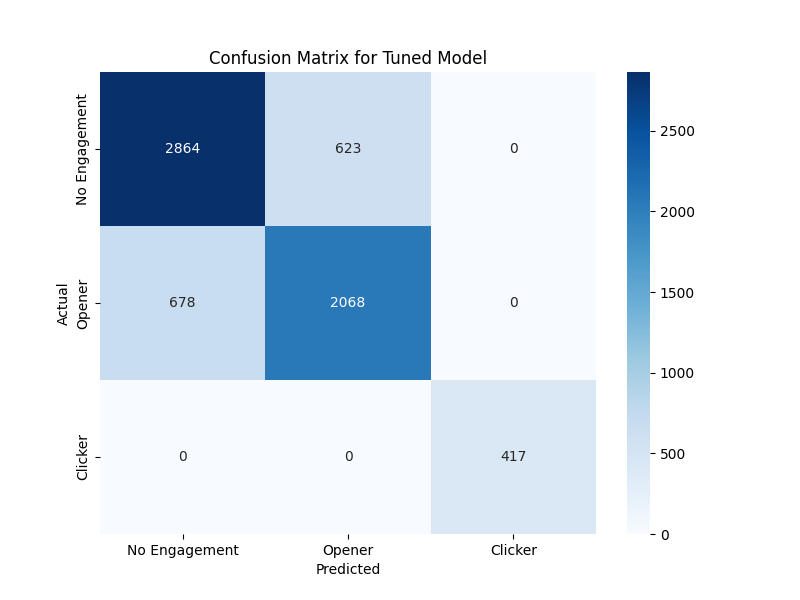
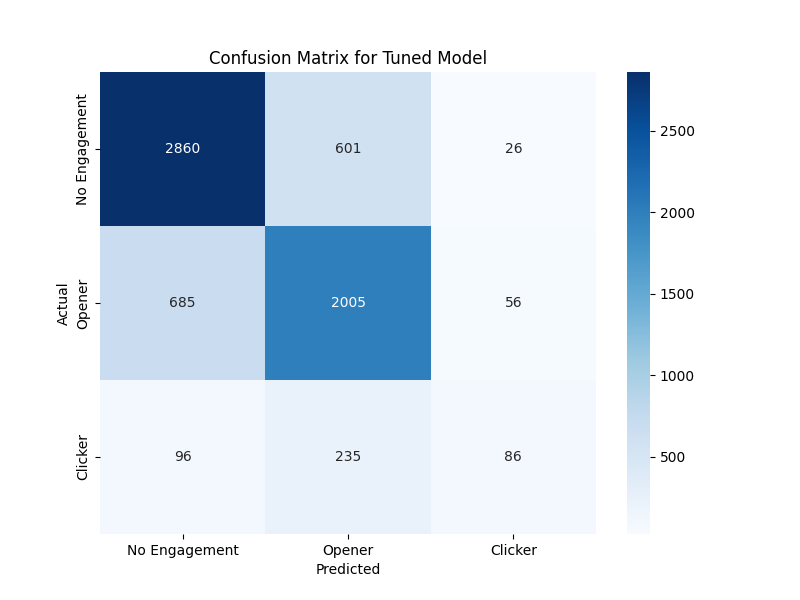
change to shaply and SMOTE in pipeline, removed more leaking and low data features

diff --git a/new_grid_cv_xgboost.py b/new_grid_cv_xgboost.py
@@ -1,10 +1,7 @@
 """
-This script trains a multiclass XGBoost model to predict user engagement,
-using GridSearchCV to find the optimal hyperparameters before evaluating
-the final model.
-
-This revised version incorporates a scikit-learn Pipeline to prevent
-data leakage during preprocessing.
+This script trains a multiclass XGBoost model to predict user engagement.
+It uses RandomizedSearchCV for efficient hyperparameter tuning and a SMOTE 
+pipeline to handle class imbalance and prevent data leakage during preprocessing.
 """
 
 import sys
@@ -14,57 +11,69 @@ import xgboost as xgb
 import matplotlib.pyplot as plt
 import seaborn as sns
 from pathlib import Path
-from sklearn.model_selection import train_test_split, GridSearchCV
+from sklearn.model_selection import train_test_split, RandomizedSearchCV
 from sklearn.impute import SimpleImputer
 from sklearn.feature_extraction.text import TfidfVectorizer
 from sklearn.compose import ColumnTransformer
-from sklearn.pipeline import Pipeline
 from sklearn.preprocessing import OneHotEncoder
 from sklearn.metrics import classification_report, confusion_matrix
-from typing import Tuple, List
+from typing import Tuple
 
-# --- Configuration (Unchanged) ---
+# Import pipeline and SMOTE from imbalanced-learn
+from imblearn.pipeline import Pipeline as ImbPipeline
+from imblearn.over_sampling import SMOTE
+
+# --- Configuration ---
 CSV_FILE_PATH = Path("merged_contacts.csv")
 TARGET_VARIABLE = "engagement_level"
 TEXT_COLS_FOR_FEATURE = ['campaign_id', 'email_subjects', 'email_bodies']
 TIMESTAMP_COLS = ['timestamp_created', 'timestamp_last_contact', 'retrieval_timestamp', 'enriched_at', 'inserted_at', 'last_contacted_from']
-CATEGORICAL_COLS = ['title', 'seniority', 'organization_industry', 'country', 'city', 'verification_status', 'enrichment_status', 'upload_method', 'api_status', 'state']
+CATEGORICAL_COLS = ['title', 'seniority', 'organization_industry', 'country', 'city', 'enrichment_status', 'upload_method', 'api_status', 'state']
 JSONB_COLS = ['employment_history', 'organization_data', 'account_data', 'api_response_raw']
+
+# List of columns to drop due to leakage, irrelevance, or being empty
 COLS_TO_DROP = [
+    # Identifiers and PII
     'id', 'email', 'first_name', 'last_name', 'company_name', 'linkedin_url',
     'website', 'headline', 'company_domain', 'phone', 'apollo_id',
     'apollo_name', 'organization', 'photo_url', 'organization_name',
-    'organization_website', 'organization_phone', 'email_reply_count',
-    'email_opened_variant', 'email_opened_step', 'timestamp_last_open',
-    'timestamp_last_reply', 'timestamp_last_click', 'timestamp_last_touch',
-    'timestamp_last_interest_change', 'timestamp_updated', 'personalization',
-    'status_summary', 'payload', 'list_id', 'assigned_to', 'campaign',
-    'uploaded_by_user', 'email_clicked_variant', 'email_clicked_step'
+    'organization_website', 'organization_phone',
+    
+    # Leakage Columns
+    'email_reply_count', 'email_opened_variant', 'email_opened_step', 
+    'timestamp_last_open', 'timestamp_last_reply', 'timestamp_last_click', 
+    'timestamp_last_touch', 'timestamp_last_interest_change', 'timestamp_updated', 
+    'status_summary', 'email_clicked_variant', 'email_clicked_step',
+    
+    # Metadata and other unused columns
+    'personalization', 'payload', 'list_id', 'assigned_to', 'campaign', 'uploaded_by_user',
+
+    # Empty columns identified from logs
+    'auto_variant_select', 'verification_status'
 ]
 
-# --- Data Loading (Unchanged) ---
+# --- Data Loading ---
 def load_data(file_path: Path) -> pd.DataFrame:
     """Loads and performs initial datetime standardization on the dataset."""
     print(f"Loading data from '{file_path}'...")
     if not file_path.is_file():
         print(f"Error: The file '{file_path}' was not found.")
         sys.exit(1)
-    try:
-        df = pd.read_csv(file_path, on_bad_lines='warn', low_memory=False)
-        print("Data successfully loaded.")
-        all_potential_timestamps = list(set(TIMESTAMP_COLS + [col for col in COLS_TO_DROP if 'timestamp' in col]))
-        for col in all_potential_timestamps:
-            if col in df.columns:
-                df[col] = pd.to_datetime(df[col], errors='coerce')
-        for col in df.select_dtypes(include=['datetime64[ns]']).columns:
-             df[col] = df[col].dt.tz_localize('UTC', nonexistent='NaT')
-        for col in df.select_dtypes(include=['datetime64[ns, UTC]']).columns:
-             if df[col].dt.tz != 'UTC':
+    
+    df = pd.read_csv(file_path, on_bad_lines='warn', low_memory=False)
+    print("Data successfully loaded.")
+
+    # Standardize all potential timestamp columns to UTC
+    all_potential_timestamps = list(set(TIMESTAMP_COLS + [col for col in COLS_TO_DROP if 'timestamp' in col]))
+    for col in all_potential_timestamps:
+        if col in df.columns:
+            df[col] = pd.to_datetime(df[col], errors='coerce')
+    for col in df.select_dtypes(include=['datetime64[ns]']).columns:
+            df[col] = df[col].dt.tz_localize('UTC', nonexistent='NaT')
+    for col in df.select_dtypes(include=['datetime64[ns, UTC]']).columns:
+            if df[col].dt.tz != 'UTC':
                 df[col] = df[col].dt.tz_convert('UTC')
-        return df
-    except Exception as e:
-        print(f"An error occurred while loading or parsing the CSV: {e}")
-        sys.exit(1)
+    return df
 
 # --- Feature Engineering ---
 def engineer_features(df: pd.DataFrame) -> Tuple[pd.DataFrame, pd.Series]:
@@ -78,7 +87,6 @@ def engineer_features(df: pd.DataFrame) -> Tuple[pd.DataFrame, pd.Series]:
     conditions = [(df['email_click_count'] > 0), (df['email_open_count'] > 0)]
     choices = [2, 1]
     df[TARGET_VARIABLE] = np.select(conditions, choices, default=0)
-    df = df.drop(columns=['email_open_count', 'email_click_count'])
 
     # 2. Combine Text Columns for later vectorization
     df['combined_text'] = ""
@@ -86,7 +94,7 @@ def engineer_features(df: pd.DataFrame) -> Tuple[pd.DataFrame, pd.Series]:
         if col in df.columns:
             df['combined_text'] += df[col].fillna('') + ' '
 
-    # 3. FIX: Engineer Timestamp Features without leaking current time
+    # 3. Engineer Timestamp Features
     if 'timestamp_created' in df.columns and pd.api.types.is_datetime64_any_dtype(df['timestamp_created']):
         ref_date = df['timestamp_created']
         for col in TIMESTAMP_COLS:
@@ -99,12 +107,13 @@ def engineer_features(df: pd.DataFrame) -> Tuple[pd.DataFrame, pd.Series]:
         if col in df.columns:
             df[f'has_{col}'] = df[col].notna().astype(int)
 
-    # 5. Drop specified and source columns
-    all_cols_to_drop = list(set(COLS_TO_DROP + TIMESTAMP_COLS + JSONB_COLS + TEXT_COLS_FOR_FEATURE))
-    df = df.drop(columns=[col for col in all_cols_to_drop if col in df.columns], errors='ignore')
-
-    X = df.drop(columns=[TARGET_VARIABLE], errors='ignore')
+    # 5. Correctly separate features (X) and target (y)
     y = df[TARGET_VARIABLE]
+    
+    all_source_cols = ['email_open_count', 'email_click_count']
+    all_cols_to_drop = list(set(COLS_TO_DROP + TIMESTAMP_COLS + JSONB_COLS + TEXT_COLS_FOR_FEATURE + all_source_cols + [TARGET_VARIABLE]))
+    
+    X = df.drop(columns=[col for col in all_cols_to_drop if col in df.columns], errors='ignore')
 
     print(f"Feature engineering complete. Shape before pipeline: {X.shape}")
     return X, y
@@ -119,25 +128,18 @@ def main():
     # 2. Split data BEFORE any fitting/preprocessing
     X_train, X_test, y_train, y_test = train_test_split(X, y, test_size=0.25, random_state=42, stratify=y)
 
-    # 3. FIX: Define preprocessing pipelines for different column types
+    # 3. Define preprocessing pipelines for different column types
     numeric_features = X.select_dtypes(include=np.number).columns.tolist()
     categorical_features = [col for col in CATEGORICAL_COLS if col in X.columns]
-    # The text feature is now 'combined_text'
     text_feature = 'combined_text'
-
-    # Ensure numeric_features doesn't contain categorical ones by mistake
     numeric_features = [col for col in numeric_features if col not in categorical_features]
 
-    numeric_transformer = Pipeline(steps=[
-        ('imputer', SimpleImputer(strategy='mean'))
-    ])
-
-    categorical_transformer = Pipeline(steps=[
+    numeric_transformer = ImbPipeline(steps=[('imputer', SimpleImputer(strategy='mean'))])
+    categorical_transformer = ImbPipeline(steps=[
         ('imputer', SimpleImputer(strategy='most_frequent')),
         ('onehot', OneHotEncoder(handle_unknown='ignore', max_categories=50))
     ])
-    
-    text_transformer = TfidfVectorizer(max_features=500, stop_words='english', lowercase=True)
+    text_transformer = TfidfVectorizer(max_features=500, stop_words='english', lowercase=True, ngram_range=(1, 2))
 
     # Create a preprocessor object using ColumnTransformer
     preprocessor = ColumnTransformer(
@@ -146,50 +148,52 @@ def main():
             ('cat', categorical_transformer, categorical_features),
             ('text', text_transformer, text_feature)
         ],
-        remainder='drop' # Drop columns that are not specified
+        remainder='drop'
     )
 
-    # 4. Create the full pipeline with preprocessor and model
-    model_pipeline = Pipeline(steps=[
+    # 4. Create the full pipeline with preprocessor, SMOTE, and model
+    model_pipeline = ImbPipeline(steps=[
         ('preprocessor', preprocessor),
+        ('smote', SMOTE(random_state=42)),
         ('classifier', xgb.XGBClassifier(
             objective='multi:softmax',
             num_class=3,
             eval_metric='mlogloss',
-            use_label_encoder=False # Recommended to set to False
+            use_label_encoder=False
         ))
     ])
     
-    # 5. Define hyperparameter grid for the pipeline
-    # Note: Parameters are prefixed with the pipeline step name ('classifier__')
-    param_grid = {
-        'classifier__max_depth': [4, 6],
-        'classifier__n_estimators': [100, 250],
-        'classifier__learning_rate': [0.05, 0.1],
-        'classifier__subsample': [0.8, 1.0],
-        'classifier__colsample_bytree': [0.8, 1.0]
+    # 5. Define hyperparameter grid for RandomizedSearchCV
+    param_distributions = {
+        'classifier__max_depth': [4, 6, 8, 10],
+        'classifier__n_estimators': [150, 250, 350, 500],
+        'classifier__learning_rate': [0.01, 0.05, 0.1, 0.15],
+        'classifier__subsample': [0.7, 0.8, 0.9, 1.0],
+        'classifier__colsample_bytree': [0.7, 0.8, 0.9, 1.0]
     }
 
-    # 6. Set up and run GridSearchCV
-    grid_search = GridSearchCV(
+    # 6. Set up and run RandomizedSearchCV for efficient tuning
+    search = RandomizedSearchCV(
         estimator=model_pipeline,
-        param_grid=param_grid,
-        scoring='f1_weighted',
-        cv=3,
+        param_distributions=param_distributions,
+        n_iter=25, # Test 25 random combinations
+        scoring='f1_macro', # Focus on performance across all classes
+        cv=5, # Use 5-fold cross-validation
         n_jobs=-1,
-        verbose=2
+        verbose=2,
+        random_state=42
     )
 
-    print("\n--- Starting Hyperparameter Tuning with GridSearchCV ---")
-    grid_search.fit(X_train, y_train)
+    print("\n--- Starting Hyperparameter Tuning with RandomizedSearchCV ---")
+    search.fit(X_train, y_train)
 
     # 7. Report results and evaluate the best model
-    print("\n--- GridSearchCV Results ---")
-    print(f"Best parameters found: {grid_search.best_params_}")
-    print(f"Best cross-validation F1-score (weighted): {grid_search.best_score_:.4f}")
+    print("\n--- Tuning Results ---")
+    print(f"Best parameters found: {search.best_params_}")
+    print(f"Best cross-validation F1-score (macro): {search.best_score_:.4f}")
 
     print("\n--- Final Model Evaluation on Test Set ---")
-    y_pred = grid_search.predict(X_test)
+    y_pred = search.predict(X_test)
     
     print("\nClassification Report:")
     print(classification_report(y_test, y_pred, target_names=['No Engagement (0)', 'Opener (1)', 'Clicker (2)']))
@@ -200,11 +204,12 @@ def main():
     sns.heatmap(cm, annot=True, fmt='d', cmap='Blues', 
                 xticklabels=['No Engagement', 'Opener', 'Clicker'],
                 yticklabels=['No Engagement', 'Opener', 'Clicker'])
-    plt.title('Confusion Matrix for Tuned Model')
+    plt.title('Confusion Matrix for Final Tuned Model')
     plt.ylabel('Actual')
     plt.xlabel('Predicted')
-    plt.savefig('tuned_model_confusion_matrix.png')
-    print("Tuned model confusion matrix saved as 'tuned_model_confusion_matrix.png'")
+    plt.savefig('final_confusion_matrix.png')
+    print("Confusion matrix plot saved as 'final_confusion_matrix.png'")
+    plt.show()
 
 if __name__ == "__main__":
     main()

diff --git a/shaply_B2Bdata.py b/shaply_B2Bdata.py
@@ -43,7 +43,7 @@ CATEGORICAL_COLS = [
 JSONB_COLS = ['employment_history', 'organization_data', 'account_data', 'api_response_raw']
 
 COLS_TO_DROP = [
-    'id', 'email', 'first_name', 'last_name', 'company_name', 'linkedin_url',
+    'id', 'email_clicked_variant', 'email_clicked_step', 'email', 'first_name', 'last_name', 'company_name', 'linkedin_url',
     'website', 'headline', 'company_domain', 'phone', 'apollo_id',
     'apollo_name', 'organization', 'photo_url', 'organization_name',
     'organization_website', 'organization_phone',
